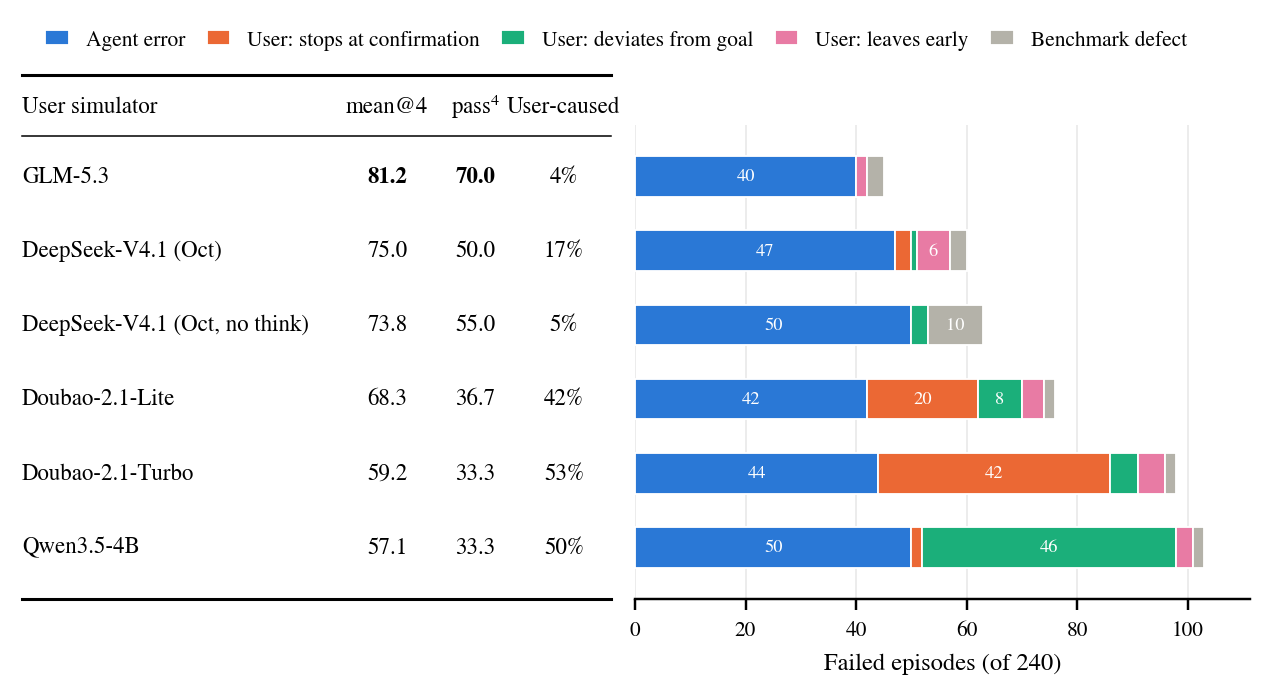
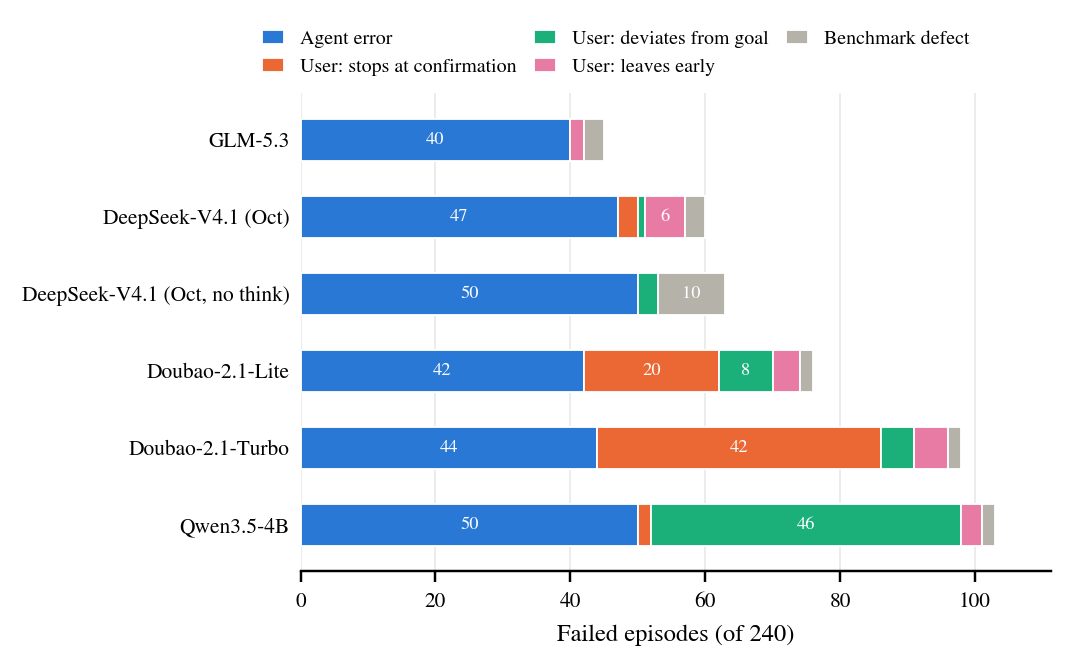
docs(tau2): regenerate figures and cause tables

diff --git a/docs/research/tau2/scripts/figures/plot_results.py b/docs/research/tau2/scripts/figures/plot_results.py
@@ -265,10 +265,23 @@ def plot_cause_figure(rows, fails, failed_tasks, out, name):
         )
     with open(os.path.join(out, f"{name}_table.csv"), "w", newline="") as f:
         w = csv.writer(f)
-        w.writerow(["user_simulator", "mean@4", "pass^4", "user_caused_share", *[c for c, _ in CAUSES]])
+        w.writerow(
+            [
+                "user_simulator",
+                "mean@4",
+                "pass^4",
+                "user_caused_share",
+                *[c for c, _ in CAUSES],
+            ]
+        )
         for s in stats:
             w.writerow(
-                [s["label"], f"{s['mean4']:.1f}", f"{s['pass4']:.1f}", f"{s['user_share']:.0f}%"]
+                [
+                    s["label"],
+                    f"{s['mean4']:.1f}",
+                    f"{s['pass4']:.1f}",
+                    f"{s['user_share']:.0f}%",
+                ]
                 + [s["counts"].get(c, 0) for c, _ in CAUSES]
             )
     print("wrote", os.path.join(out, f"{name}_table.csv"))
@@ -279,10 +292,27 @@ def plot_cause_figure(rows, fails, failed_tasks, out, name):
     left = [0] * n
     for cause, color in CAUSES:
         vals = [s["counts"].get(cause, 0) for s in stats]
-        ax.barh(ys, vals, left=left, height=0.55, color=color, edgecolor="white", linewidth=0.6, label=cause)
+        ax.barh(
+            ys,
+            vals,
+            left=left,
+            height=0.55,
+            color=color,
+            edgecolor="white",
+            linewidth=0.6,
+            label=cause,
+        )
         for y, x0, v in zip(ys, left, vals):
             if v >= 6:
-                ax.text(x0 + v / 2, y, str(v), ha="center", va="center", fontsize=6, color="white")
+                ax.text(
+                    x0 + v / 2,
+                    y,
+                    str(v),
+                    ha="center",
+                    va="center",
+                    fontsize=6,
+                    color="white",
+                )
         left = [x0 + v for x0, v in zip(left, vals)]
     ax.set_yticks(ys)
     ax.set_yticklabels([lab for _, lab in rows])
@@ -293,8 +323,13 @@ def plot_cause_figure(rows, fails, failed_tasks, out, name):
     ax.set_xlim(0, max(left) * 1.08)
     ax.set_xlabel(f"Failed episodes (of {n_ep})")
     ax.legend(
-        frameon=False, ncol=3, loc="lower center", bbox_to_anchor=(0.42, 1.0),
-        columnspacing=0.9, handlelength=1.1, fontsize=6.5,
+        frameon=False,
+        ncol=3,
+        loc="lower center",
+        bbox_to_anchor=(0.42, 1.0),
+        columnspacing=0.9,
+        handlelength=1.1,
+        fontsize=6.5,
     )
     save(fig, out, name)
 
@@ -310,9 +345,7 @@ def main():
     plot_baselines(a.sao_case_study, a.out)
     fails, failed_tasks = load_labels(a.labels)
     plot_cause_figure(SIM_ROWS, fails, failed_tasks, a.out, "user_sim")
-    plot_cause_figure(
-        PATCH_ROWS, fails, failed_tasks, a.out, "user_sim_patch"
-    )
+    plot_cause_figure(PATCH_ROWS, fails, failed_tasks, a.out, "user_sim_patch")
 
 
 if __name__ == "__main__":
